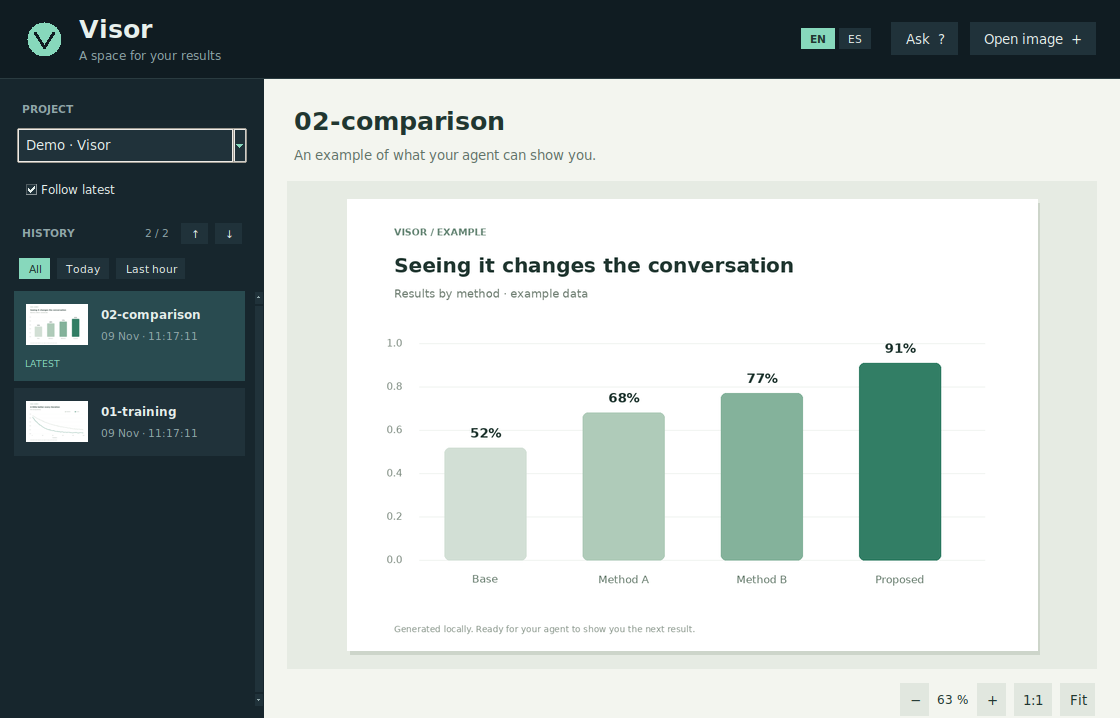
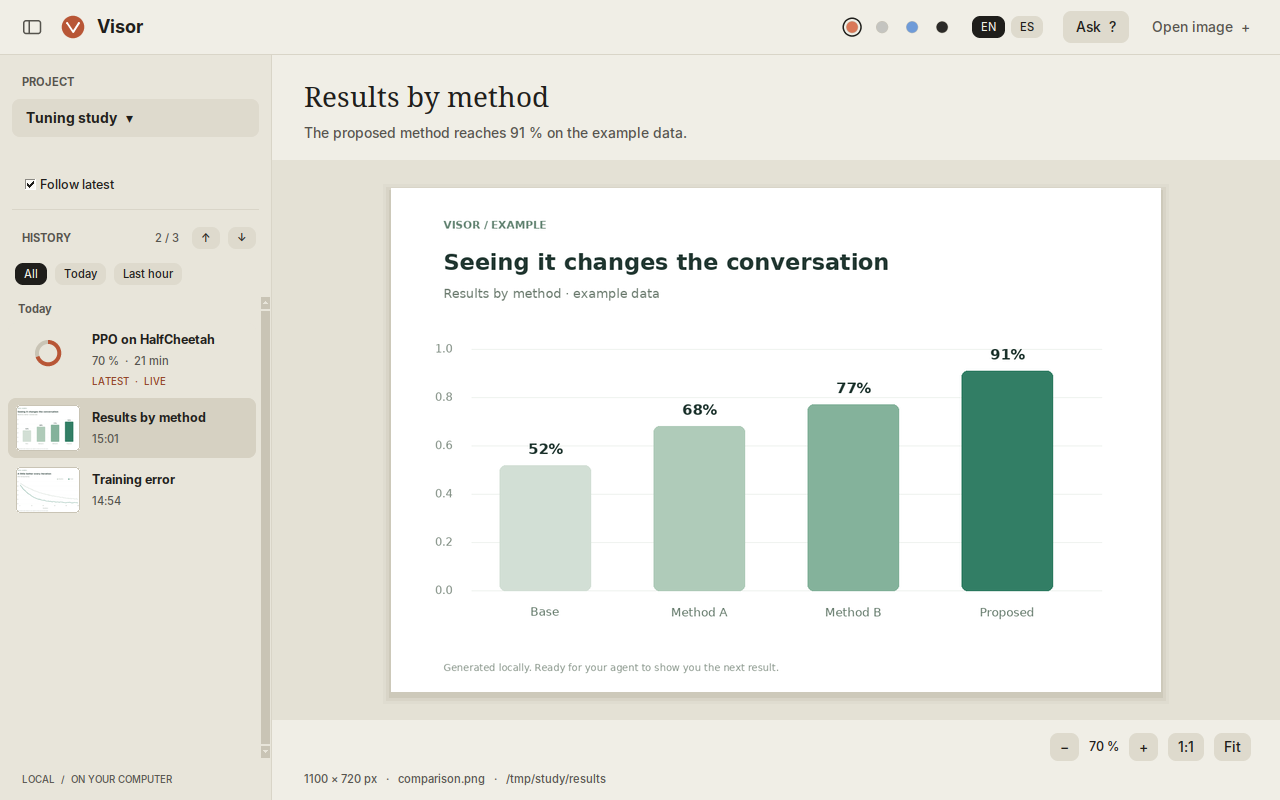
Vibe projects page: new Visor screenshot, with a live run in the history

diff --git a/_pages/vibe.md b/_pages/vibe.md
@@ -34,7 +34,7 @@ nav_order: 5
 </div>
 
 <div class="vibe-item">
-  <img class="vibe-thumb rounded z-depth-1" src="/assets/img/vibe/visor.png" alt="The Visor window showing a bar chart, with the history of figures in the sidebar" loading="lazy">
+  <img class="vibe-thumb rounded z-depth-1" src="/assets/img/vibe/visor.png" alt="The Visor window showing a bar chart, with the history of figures and a live training run in the sidebar" loading="lazy">
   <div class="vibe-body">
     <h3>Visor</h3>
     <p><strong>A small desktop window where Codex and Claude Code show you plots, images and PDF slide decks</strong> while they work from the terminal, together with the skill that tells the agent when to use it. It keeps a history of every version of a figure, follows a file as the agent regenerates it, and shows a training or evaluation as a live page with its progress, time left and metric curves. A panel lets you ask the session that made a figure about it: right-click a point and the question carries a zoomed crop of that spot. A laptop can follow a workstation over ssh, so what the agents show there also appears on the laptop. It runs locally, with no network ports or API keys.</p>
